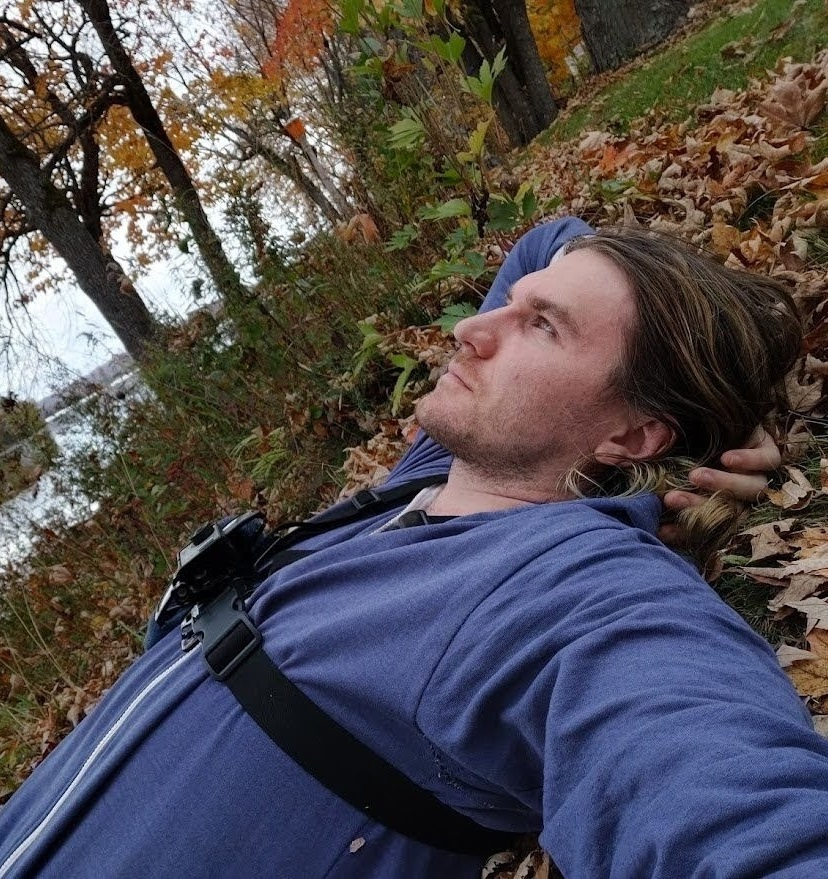
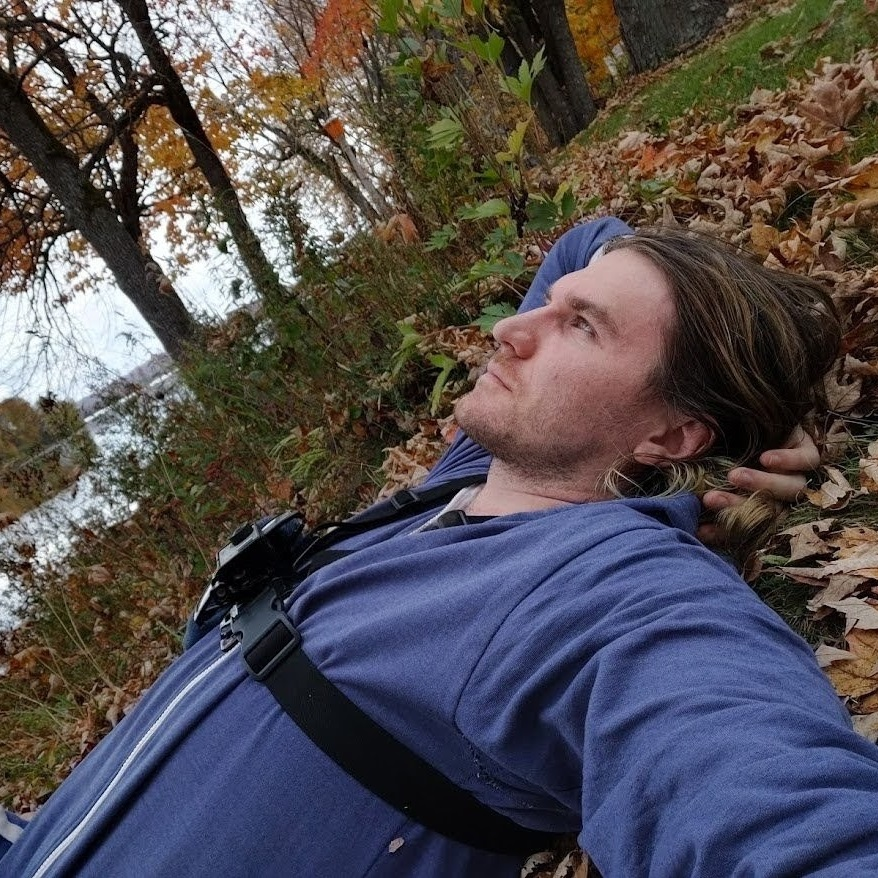
dating profile: og:image square

diff --git a/writings/My-dating-profile.html b/writings/My-dating-profile.html
@@ -103,8 +103,7 @@ Conversion notes:
   </p>
   <h2>Looks</h2>
   <p>
-    <center> <img style="width: 49%" src="../images/1 crop.jpg" /><img style="width: 37%"
-        src="../images/profile_face.jpg" />
+    <center> <img style="width: 49%" src="../images/1.jpg" /><img style="width: 37%" src="../images/profile_face.jpg" />
     </center>
     <p>
       A lot of dating profiles start with pictures, so I suppose that’s important for most people, so here are some
